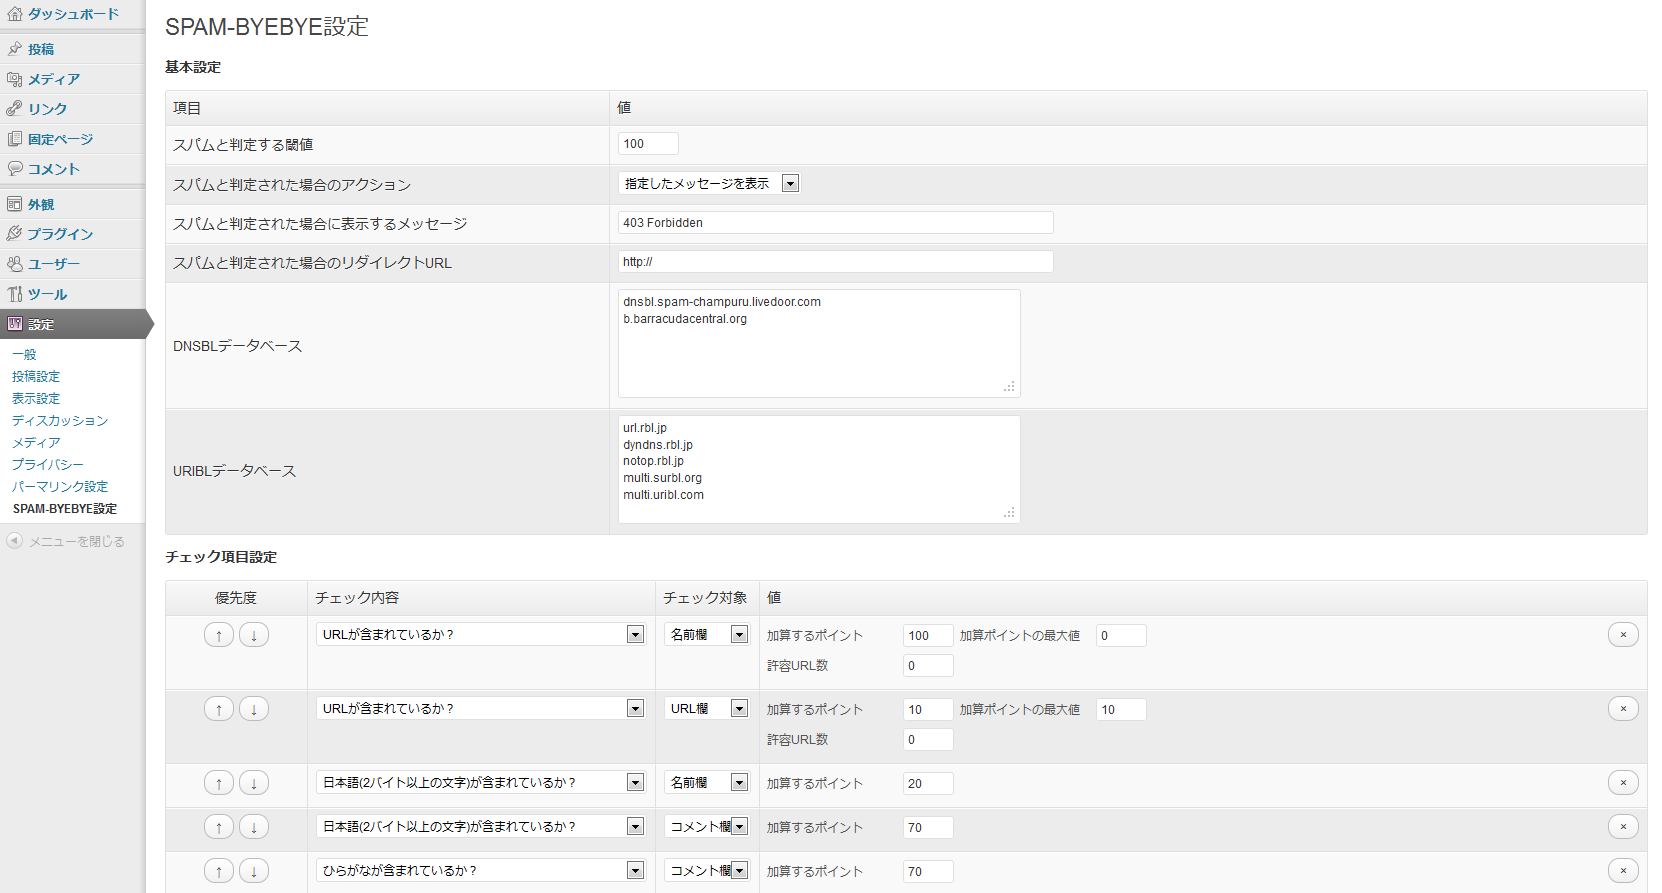
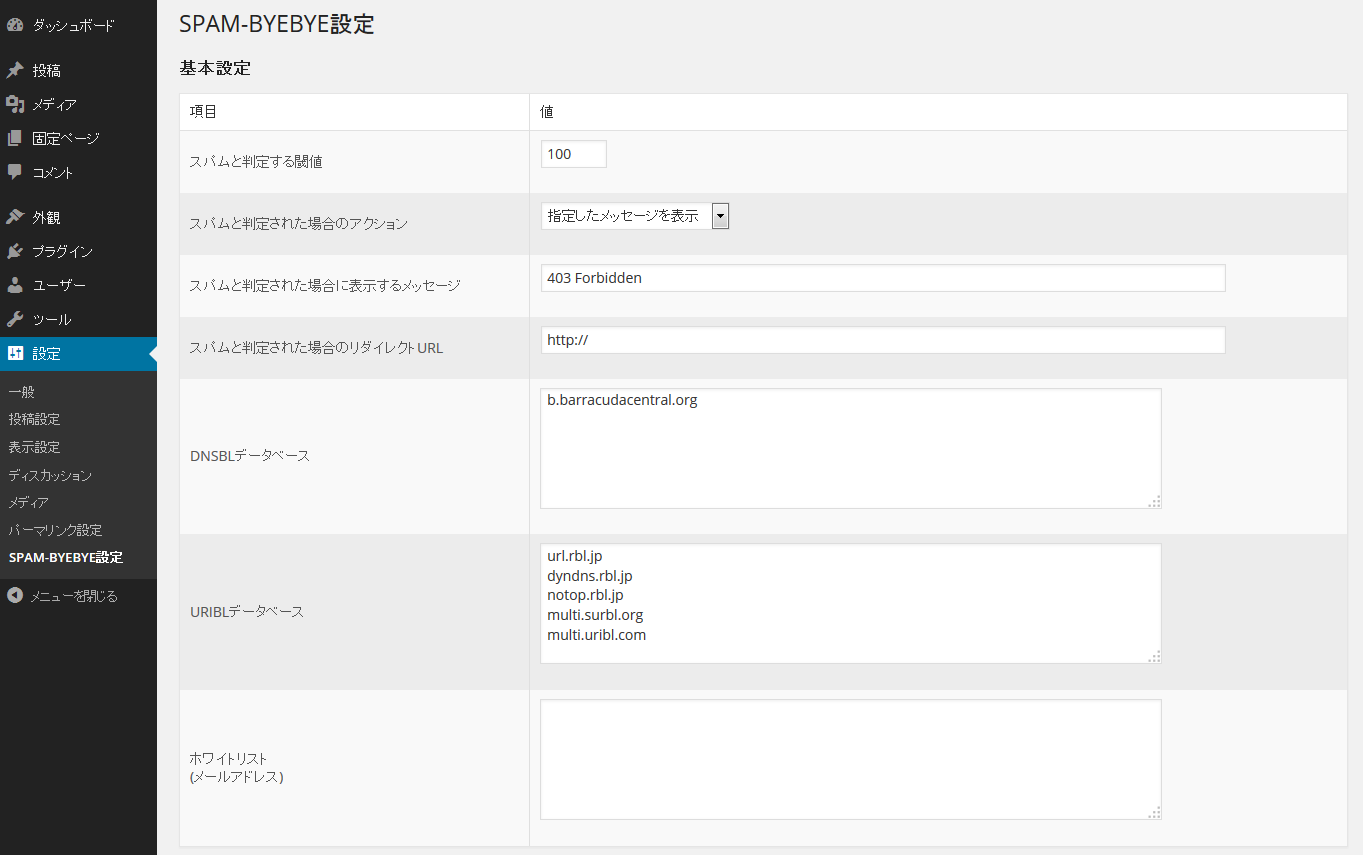
up to 2.2.0
git-svn-id: https://plugins.svn.wordpress.org/spam-byebye/trunk@1106596 b8457f37-d9ea-0310-8a92-e5e31aec5664

diff --git a/spam-bye2.php b/spam-bye2.php
@@ -4,7 +4,7 @@ Plugin Name: spam-byebye
 Plugin URI: http://cmf.ohtanz.com/
 Description: コメントスパム対策用プラグイン
 Author: ohtan
-Version: 2.1.3
+Version: 2.2.0
 Author URI: http://cmf.ohtanz.com/
 License: GPL2
 */
@@ -43,7 +43,8 @@ function spambye2Load($inData)
 		$sb2->spamBye2Check(
 			$inData['comment_author'],
 			$inData['comment_author_url'],
-			$inData['comment_content']
+			$inData['comment_content'],
+			$inData['comment_author_email']
 		);
 	}
 
@@ -117,6 +118,7 @@ class spamBye2Setup
 							break;
 						case preg_match("/^SB2_DNSBL_HOSTS$/", $key):
 						case preg_match("/^SB2_URIBL_HOSTS$/", $key):
+						case preg_match("/^SB2_WHITE_LISTS$/", $key):
 							$line .= "define('${key}', '" . $this->sb2SetupSreplace($val[0]) . "');\n";
 							break;
 						case preg_match("/^SB2_NGWORD_[0-9]+$/", $key):
@@ -182,6 +184,13 @@ class spamBye2Setup
 		foreach (preg_split("/[\s]+/", $_POST['SB2_URIBL_HOSTS'][0]) as $val) {
 			if ($val !== "" && !preg_match("/^[\w\-\.]*[\w\-]+\.[a-z]+$/i", $val)) {
 				$_POST['SB2_URIBL_HOSTS']['error'] = "値を正しく入力してください";
+				$this->error = 1;
+				break;
+			}
+		}
+		foreach (preg_split("/[\s]+/", $_POST['SB2_WHITE_LISTS'][0]) as $val) {
+			if ($val !== "" && !preg_match("/^[0-9A-Za-z._\-]+@[0-9A-Za-z.\-]+$/i", $val)) {
+				$_POST['SB2_WHITE_LISTS']['error'] = "値を正しく入力してください";
 				$this->error = 1;
 				break;
 			}
@@ -295,6 +304,7 @@ class spamBye2Setup
 		$_POST['SB2_SPAM_REDIRECT'][0] = SB2_SPAM_REDIRECT;
 		$_POST['SB2_DNSBL_HOSTS'][0] = str_replace(",", "\r", SB2_DNSBL_HOSTS);
 		$_POST['SB2_URIBL_HOSTS'][0] = str_replace(",", "\r", SB2_URIBL_HOSTS);
+		$_POST['SB2_WHITE_LISTS'][0] = (defined('SB2_WHITE_LISTS') ? str_replace(",", "\r", SB2_WHITE_LISTS) : null);
 		$_POST['SB2_ENTRY_OBJECT'][0] = SB2_ENTRY_OBJECT;
 
 		for ($i = 1; $i <= SB2_ENTRY_OBJECT; $i++) {
@@ -327,8 +337,11 @@ class spamBye2
 	var $reverseaddr;
 	var $sb2Badpoint = 0;
 
-	function spamBye2Check($author,$url,$content)
+	function spamBye2Check($author, $url, $content, $email)
 	{
+		(array)$white_list = $this->sb2Explode(SB2_WHITE_LISTS, ',');
+		if (in_array($email, $white_list)) return;
+
 		if (!function_exists("mb_convert_encoding") || !function_exists("mb_strlen") || !function_exists("mb_detect_encoding")) {
 			wp_die('mbstring function is not found');
 		}

diff --git a/setup.php b/setup.php
@@ -77,11 +77,18 @@
 			<td style="color:red;border-top:0;"><?php echo $_POST['SB2_DNSBL_HOSTS']['error']; ?></td>
 		</tr>
 		<tr style="background-color:#ececec;">
-			<th rowspan="2" style="border-right:1px solid #dfdfdf;border-bottom:0;">URIBLデータベース</th>
+			<th rowspan="2" style="border-right:1px solid #dfdfdf;">URIBLデータベース</th>
 			<td style="border-bottom:0;"><textarea name="SB2_URIBL_HOSTS[]" rows="5" cols="70" class="search-input"><?php echo htmlspecialchars($_POST['SB2_URIBL_HOSTS'][0]); ?></textarea></td>
 		</tr>
 		<tr style="background-color:#ececec;">
-			<td style="color:red;border-top:0;border-bottom:0;"><?php echo $_POST['SB2_URIBL_HOSTS']['error']; ?></td>
+			<td style="color:red;border-top:0;"><?php echo $_POST['SB2_URIBL_HOSTS']['error']; ?></td>
+		</tr>
+		<tr style="background-color:#f9f9f9;">
+			<th rowspan="2" style="border-right:1px solid #dfdfdf;border-bottom:0;">ホワイトリスト<br />(メールアドレス)</th>
+			<td style="border-bottom:0;"><textarea name="SB2_WHITE_LISTS[]" rows="5" cols="70" class="search-input"><?php echo htmlspecialchars($_POST['SB2_WHITE_LISTS'][0]); ?></textarea></td>
+		</tr>
+		<tr style="background-color:#f9f9f9;">
+			<td style="color:red;border-top:0;border-bottom:0;"><?php echo $_POST['SB2_WHITE_LISTS']['error']; ?></td>
 		</tr>
 		</tbody>
 		</table>

diff --git a/config.default.php b/config.default.php
@@ -26,6 +26,10 @@ define('SB2_DNSBL_HOSTS', 'b.barracudacentral.org');
 // 複数指定する場合は「,」で区切る
 define('SB2_URIBL_HOSTS', 'url.rbl.jp,dyndns.rbl.jp,notop.rbl.jp,multi.surbl.org,multi.uribl.com');
 
+// ホワイトリスト(メールアドレス)
+// 複数指定する場合は「,」で区切る
+define('SB2_WHITE_LISTS', '');
+
 /************************************************** チェック項目設定 ***************************************************
 
 [チェック内容]
